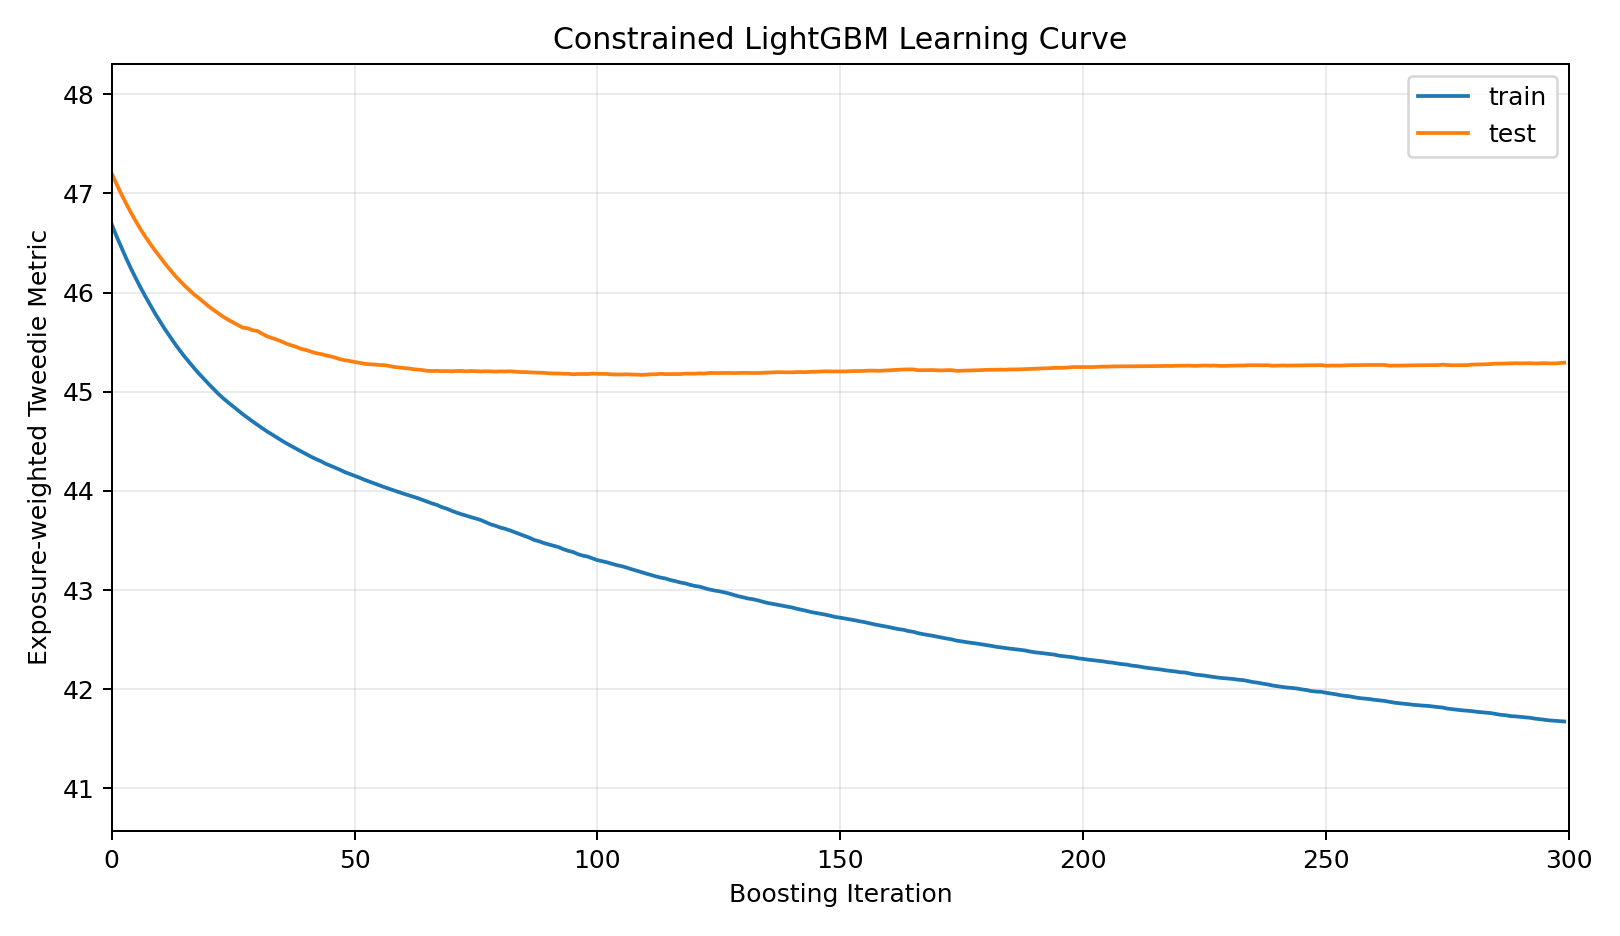
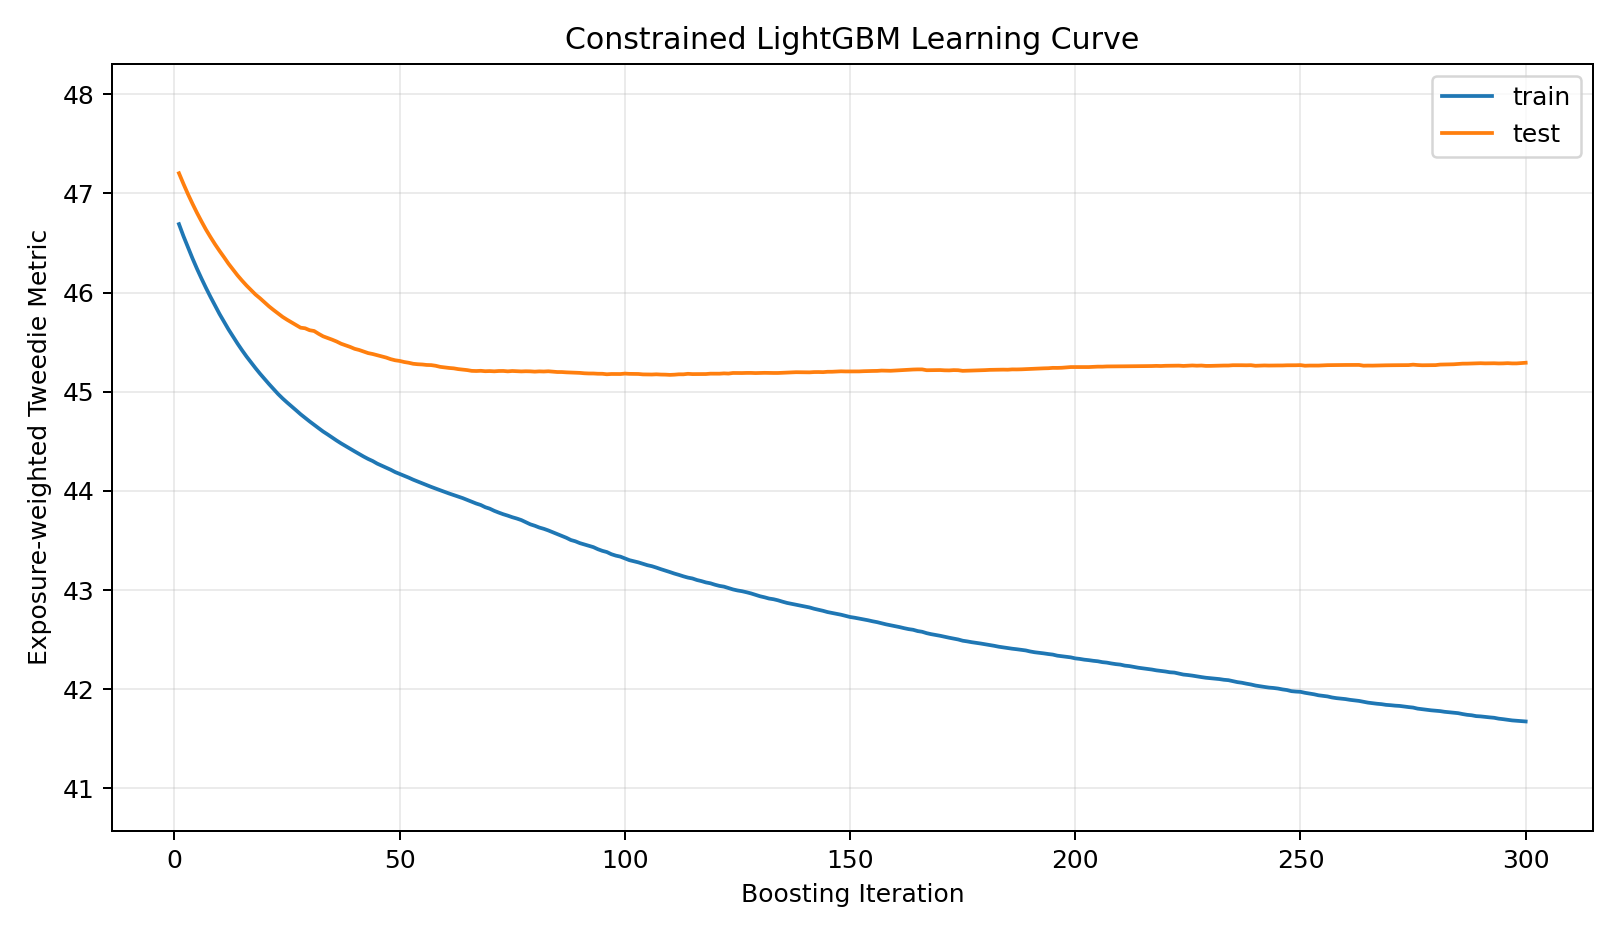
Fix Ex2 report paths and learning curve iteration numbering

diff --git a/tests/test_learning_curve.py b/tests/test_learning_curve.py
@@ -213,3 +213,135 @@ def test_test_outcomes_do_not_change_fitted_model(fitted_example):
         rtol=1e-8,
         atol=1e-8,
     )
+
+
+def test_cli_forwards_ex1_metrics_path(monkeypatch, tmp_path):
+    """The CLI must forward an explicitly supplied Ex1 report path."""
+    from analyses import ps3_script
+    from analyses import learning_curve
+
+    frame = pd.DataFrame()
+    report_path = tmp_path / "custom_ex1_metrics.json"
+    results_dir = tmp_path / "outputs"
+
+    captured = {}
+
+    def fake_run(data, output_dir, ex1_metrics_path=None):
+        captured["frame"] = data
+        captured["results_dir"] = output_dir
+        captured["ex1_metrics_path"] = ex1_metrics_path
+        return None, {}
+
+    monkeypatch.setattr(
+        ps3_script,
+        "load_input_data",
+        lambda *args: frame,
+    )
+
+    monkeypatch.setattr(
+        learning_curve,
+        "run_learning_curve",
+        fake_run,
+    )
+
+    ps3_script.main(
+        [
+            "ps4-ex2",
+            "--results-dir",
+            str(results_dir),
+            "--ex1-metrics-path",
+            str(report_path),
+        ]
+    )
+
+    assert captured["frame"] is frame
+    assert captured["results_dir"] == results_dir
+    assert captured["ex1_metrics_path"] == report_path
+
+
+def test_ex1_report_defaults_to_results_dir(monkeypatch, tmp_path):
+    """Ex2 should read the Ex1 report from its results directory."""
+    from analyses import learning_curve
+
+    report_path = tmp_path / "ps4_ex1_monotonicity_metrics.json"
+    report_path.write_text("{}", encoding="utf-8")
+
+    captured = {}
+
+    class ReportLoaded(Exception):
+        pass
+
+    def fake_load(path):
+        captured["path"] = path
+        raise ReportLoaded
+
+    monkeypatch.setattr(
+        learning_curve,
+        "load_ex1_report",
+        fake_load,
+    )
+
+    with pytest.raises(ReportLoaded):
+        learning_curve.run_learning_curve(
+            pd.DataFrame(),
+            results_dir=tmp_path,
+        )
+
+    assert captured["path"] == report_path
+
+
+def test_missing_ex1_report_has_clear_error(tmp_path):
+    """A missing Ex1 report should produce an informative error."""
+    from analyses.learning_curve import run_learning_curve
+
+    with pytest.raises(
+        FileNotFoundError,
+        match="Exercise 1 report not found",
+    ):
+        run_learning_curve(
+            pd.DataFrame(),
+            results_dir=tmp_path,
+        )
+
+
+def test_plot_uses_one_based_boosting_rounds(
+    fitted_example,
+    tmp_path,
+    monkeypatch,
+):
+    """Both plotted curves must use rounds 1 through n."""
+    import lightgbm as lgb
+
+    pipeline, _, _, _, _ = fitted_example
+    model = pipeline.named_steps["model"]
+
+    original_plot_metric = lgb.plot_metric
+    captured = {}
+
+    def capture_plot(*args, **kwargs):
+        ax = original_plot_metric(*args, **kwargs)
+        captured["ax"] = ax
+        return ax
+
+    monkeypatch.setattr(
+        lgb,
+        "plot_metric",
+        capture_plot,
+    )
+
+    plot_learning_curve(
+        model,
+        tmp_path / "learning_curve.png",
+    )
+
+    lines = captured["ax"].get_lines()
+
+    assert len(lines) == 2
+
+    expected_rounds = np.arange(1, 11)
+
+    for line in lines:
+        np.testing.assert_array_equal(
+            line.get_xdata(),
+            expected_rounds,
+        )

diff --git a/analyses/ps3_script.py b/analyses/ps3_script.py
@@ -115,10 +115,15 @@ def run_ps4_ex1(frame, results_dir):
 
 # %% PS4 Exercise 2 — Learning curve
 
-def run_ps4_ex2(frame, results_dir):
+def run_ps4_ex2(frame, results_dir, ex1_metrics_path=None):
     from analyses.learning_curve import run_learning_curve
 
-    _, metrics = run_learning_curve(frame, results_dir)
+    _, metrics = run_learning_curve(
+        frame,
+        results_dir,
+        ex1_metrics_path=ex1_metrics_path,
+    )
+
     return metrics
 
 # %% Shared report and command-line support
@@ -190,7 +195,23 @@ def main(argv=None):
         default="benchmark",
         choices=["check-data", *ps3_sections, "metrics", "all", *ps4_sections],
     )
-    parser.add_argument("--results-dir", type=Path, default=Path("results"))
+    parser.add_argument(
+        "--results-dir",
+        type=Path,
+        default=Path("results"),
+    )
+
+    parser.add_argument(
+        "--ex1-metrics-path",
+        type=Path,
+        default=None,
+        help=(
+            "Exercise 1 metrics JSON for PS4 Exercise 2. "
+            "Defaults to ps4_ex1_monotonicity_metrics.json "
+            "inside --results-dir."
+        ),
+    )
+
     parser.add_argument(
         "--data", type=Path,
         help="Explicit local prepared Parquet cache; otherwise use the instructor loader",
@@ -223,7 +244,14 @@ def main(argv=None):
         print(f"Validated {len(frame):,} policies ({len(train):,} train; {len(test):,} test)")
         return
     if args.action in ps4_sections:
-        ps4_sections[args.action](frame, args.results_dir)
+        if args.action == "ps4-ex2":
+            run_ps4_ex2(
+                frame,
+                args.results_dir,
+                ex1_metrics_path=args.ex1_metrics_path,
+            )
+        else:
+            ps4_sections[args.action](frame, args.results_dir)
         return
 
     archive_results(args.results_dir)

diff --git a/analyses/learning_curve.py b/analyses/learning_curve.py
@@ -37,6 +37,7 @@ EX1_METRICS_PATH = (
 
 def load_ex1_report(path=EX1_METRICS_PATH):
     """Load the parameters selected in Exercise 1."""
+
     with Path(path).open(encoding="utf-8") as file:
         return json.load(file)
 
@@ -125,6 +126,15 @@ def plot_learning_curve(model, output_path):
         ylabel="Exposure-weighted Tweedie Metric",
     )
 
+    # Convert history indices to one-based boosting rounds.
+    for line in ax.get_lines():
+        n_rounds = len(line.get_ydata())
+        line.set_xdata(np.arange(1, n_rounds + 1))
+
+    # Update the horizontal axis after changing the coordinates.
+    ax.relim()
+    ax.autoscale(enable=True, axis="x")
+
     ax.grid(alpha=0.25)
     ax.figure.tight_layout()
     ax.figure.savefig(output_path, dpi=180)
@@ -137,9 +147,25 @@ def plot_learning_curve(model, output_path):
 def run_learning_curve(
     frame,
     results_dir="results",
-    ex1_metrics_path=EX1_METRICS_PATH,
+    ex1_metrics_path=None,
 ):
     """Run Exercise 2 and save the learning curve and metrics."""
+
+    results_dir = Path(results_dir)
+
+    # Use the Ex1 report from the same results directory by default.
+    if ex1_metrics_path is None:
+        ex1_metrics_path = (
+            results_dir / "ps4_ex1_monotonicity_metrics.json"
+        )
+
+    ex1_metrics_path = Path(ex1_metrics_path)
+
+    if not ex1_metrics_path.is_file():
+        raise FileNotFoundError(
+            f"Exercise 1 report not found: {ex1_metrics_path}. "
+            "Run Exercise 1 first or provide --ex1-metrics-path."
+        )
 
     report = load_ex1_report(ex1_metrics_path)
 
@@ -269,7 +295,7 @@ def run_learning_curve(
         ),
     }
 
-    results_dir = Path(results_dir)
+    # Save the learning curve and evaluation history.
     results_dir.mkdir(parents=True, exist_ok=True)
 
     plot_learning_curve(

diff --git a/README.md b/README.md
@@ -112,8 +112,29 @@ The fixed IDpol split, training-fitted preprocessing, increasing BonusMalus cons
 
 ### Reproduce
 
+Run Exercise 2 using the committed Exercise 1 report:
+
 ```bash
 python -m analyses.ps3_script ps4-ex2 --data data/ps4_claims.parquet --results-dir results
+```
+
+By default, Exercise 2 reads `ps4_ex1_monotonicity_metrics.json` from the specified results directory.
+
+To reproduce both exercises using a separate results directory:
+
+```bash
+python -m analyses.ps3_script ps4-ex1 --data data/ps4_claims.parquet --results-dir data/custom_results
+
+python -m analyses.ps3_script ps4-ex2 --data data/ps4_claims.parquet --results-dir data/custom_results
+```
+
+Alternatively, an existing Exercise 1 report can be supplied explicitly:
+
+```bash
+python -m analyses.ps3_script ps4-ex2 --data data/ps4_claims.parquet --results-dir data/ex2_outputs --ex1-metrics-path results/ps4_ex1_monotonicity_metrics.json
+```
+
+The report must match the current dataset and fixed sample split. The learning curve uses one-based boosting rounds, consistent with the saved evaluation history and reported iteration numbers.
 ```
 
 ### Results
